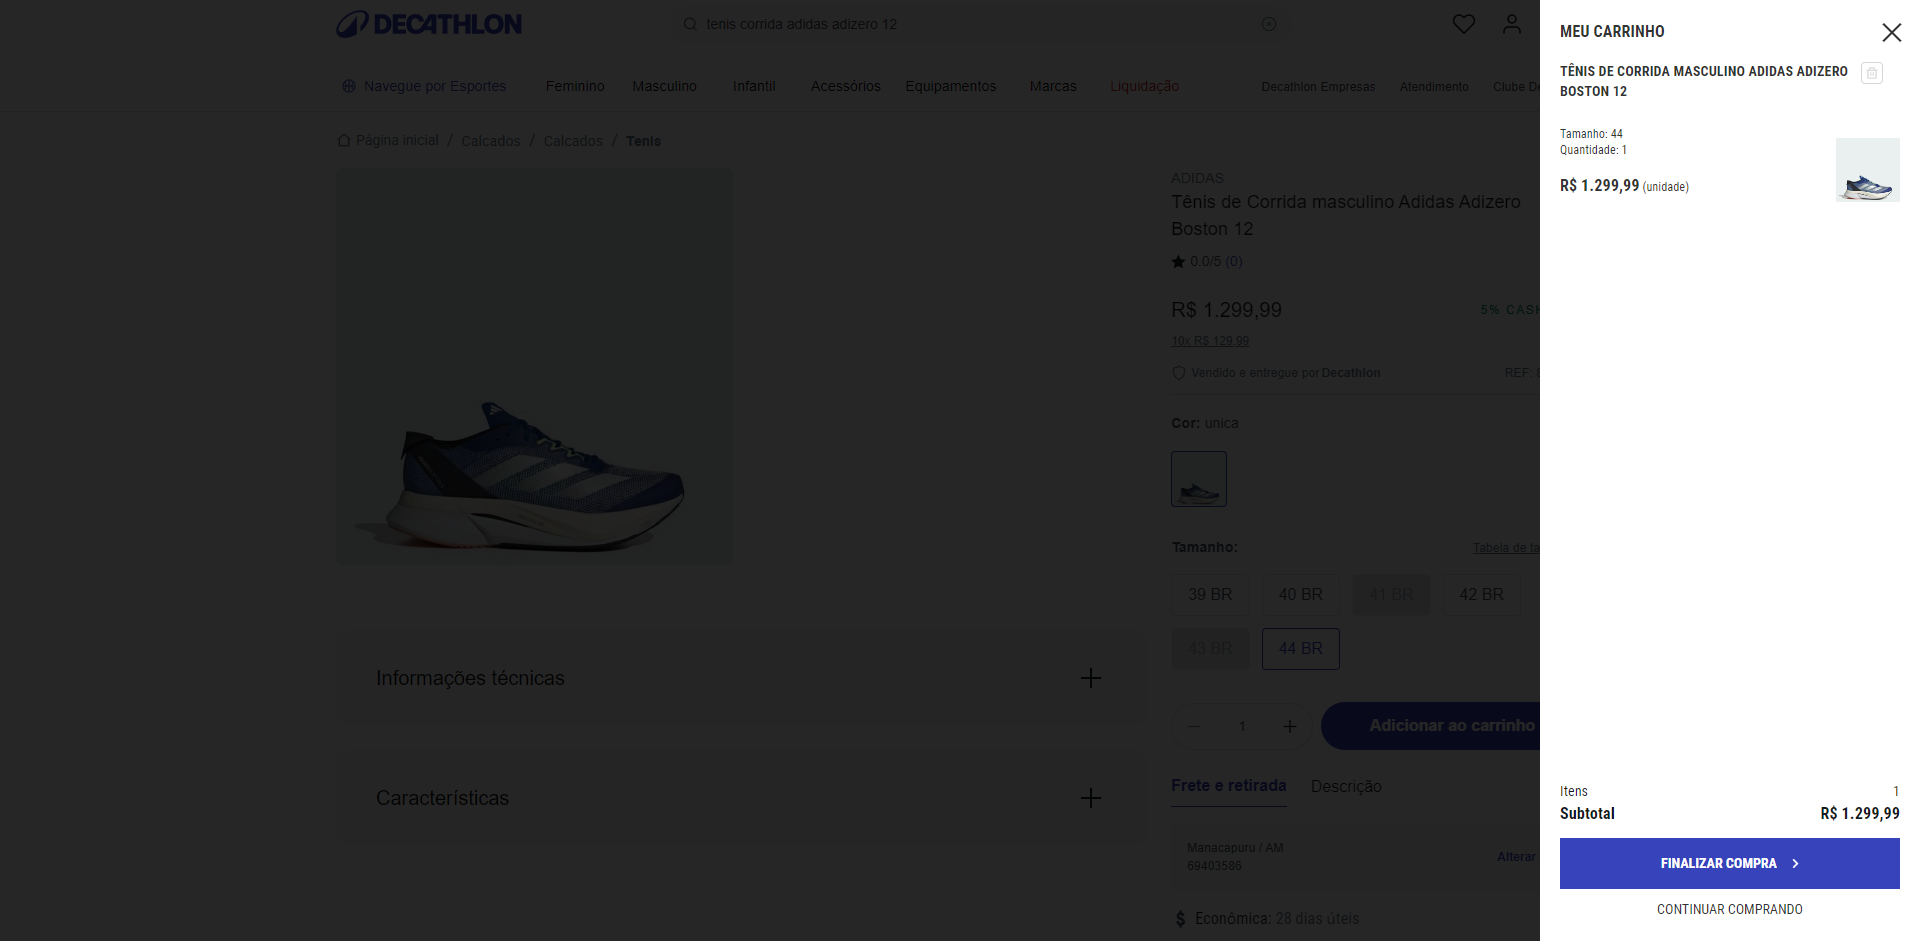
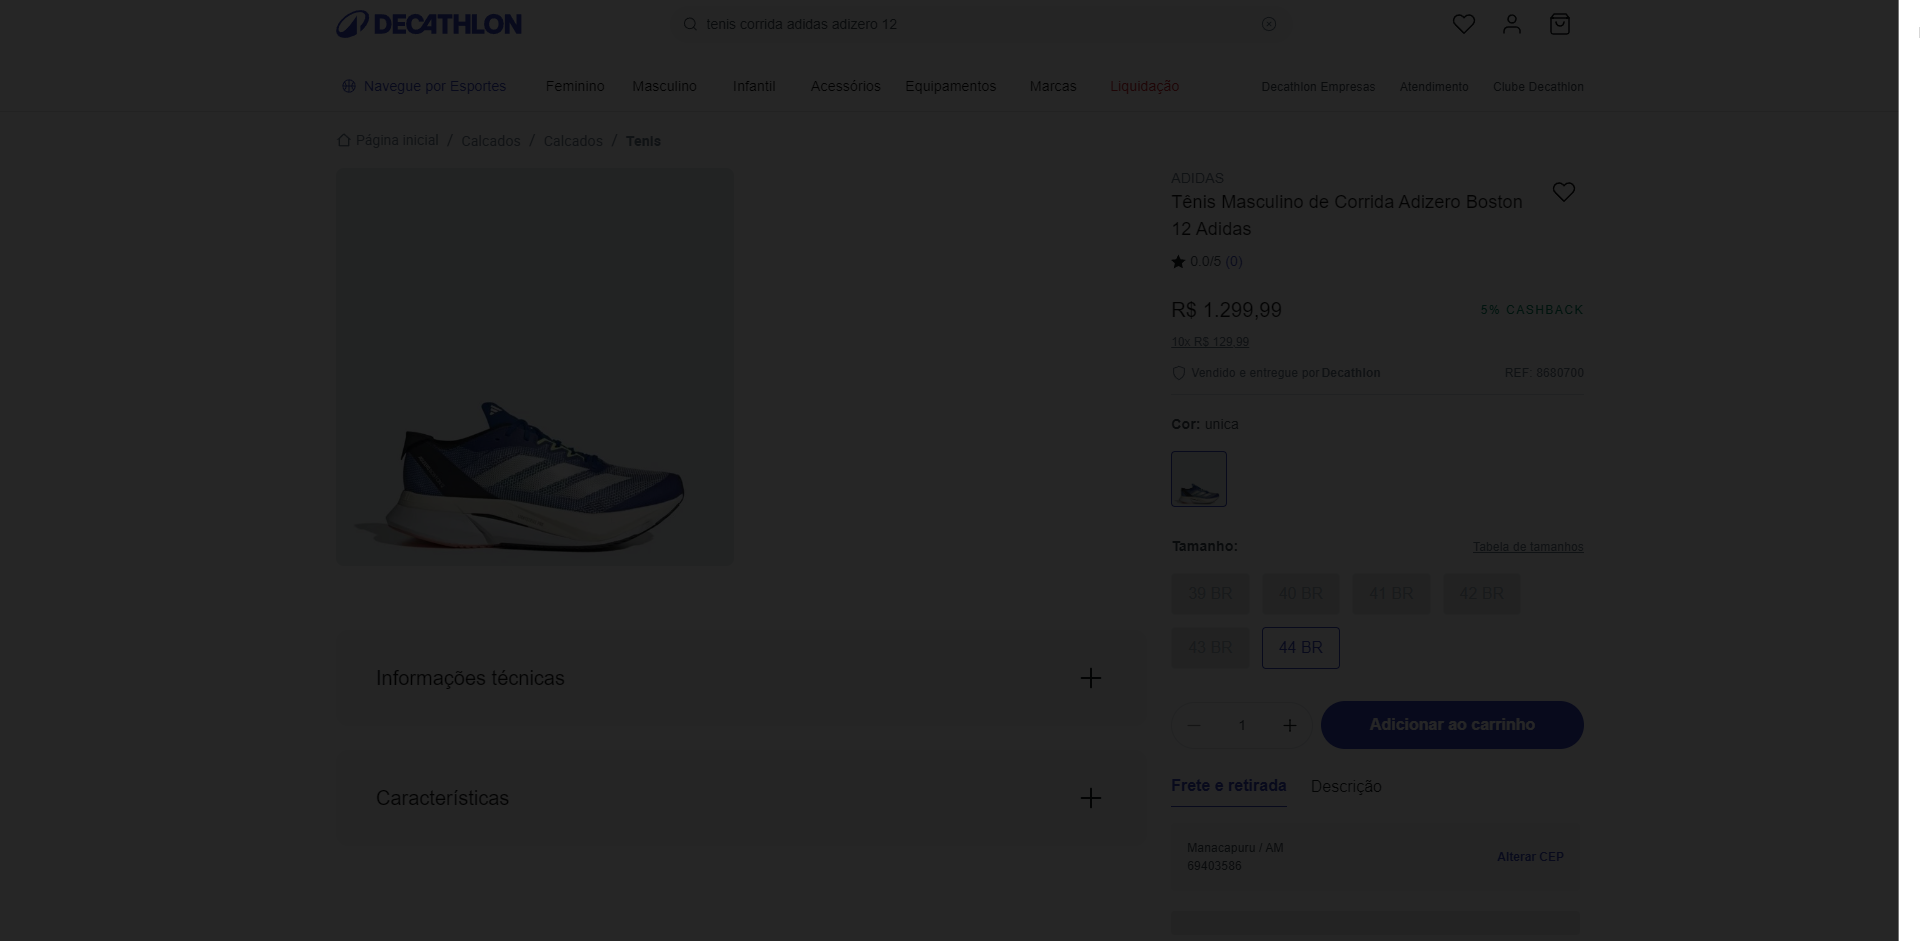
Alteração do Metodo pesquisarProduto e consultarCarrinho.

Changed region(s): [[0.7812, 0.0, 1.0, 1.0]]

diff --git a/src/test/java/decathlon/automation/metodos/Metodos.java b/src/test/java/decathlon/automation/metodos/Metodos.java
@@ -16,94 +16,93 @@ import org.openqa.selenium.support.ui.WebDriverWait;
 import decathlon.automation.drivers.DriverFactory;
 
 public class Metodos extends DriverFactory {
-    private static final String SCREENSHOTS_DIR = "evidencias.teste/";
+	private static final String SCREENSHOTS_DIR = "evidencias.teste/";
 
-    public static void captureScreenshot(String screenshotName) {
-        TakesScreenshot screenshotDriver = (TakesScreenshot) driver;
-        File screenshot = screenshotDriver.getScreenshotAs(OutputType.FILE);
-        try {
-            FileUtils.copyFile(screenshot, new File(SCREENSHOTS_DIR + screenshotName + ".png"));
-        } catch (IOException e) {
-            e.printStackTrace();
-        }
-    }
+	public static void captureScreenshot(String screenshotName) {
+		TakesScreenshot screenshotDriver = (TakesScreenshot) driver;
+		File screenshot = screenshotDriver.getScreenshotAs(OutputType.FILE);
+		try {
+			FileUtils.copyFile(screenshot, new File(SCREENSHOTS_DIR + screenshotName + ".png"));
+		} catch (IOException e) {
+			e.printStackTrace();
+		}
+	}
 
-    public static void esperarEClicar(By locator, int segundos) {
-        WebDriverWait wait = new WebDriverWait(driver, Duration.ofSeconds(segundos));
-        WebElement elemento = wait.until(ExpectedConditions.elementToBeClickable(locator));
-        elemento.click();
-    }
+	public static void esperarEClicar(By locator, int segundos) {
+		WebDriverWait wait = new WebDriverWait(driver, Duration.ofSeconds(segundos));
+		WebElement elemento = wait.until(ExpectedConditions.elementToBeClickable(locator));
+		elemento.click();
+	}
 
-    public static void clicar(By elemento) {
-        esperarEClicar(elemento, 10);
-    }
+	public static void clicar(By elemento) {
+		esperarEClicar(elemento, 10);
+	}
 
-    public static void preencherCampo(By elemento, String texto) {
-        WebDriverWait wait = new WebDriverWait(driver, Duration.ofSeconds(10));
-        WebElement campo = wait.until(ExpectedConditions.elementToBeClickable(elemento));
-        campo.clear();
-        campo.sendKeys(texto);
-    }
+	public static void preencherCampo(By elemento, String texto) {
+		WebDriverWait wait = new WebDriverWait(driver, Duration.ofSeconds(10));
+		WebElement campo = wait.until(ExpectedConditions.elementToBeClickable(elemento));
+		campo.clear();
+		campo.sendKeys(texto);
+	}
 
-    public static void pressionarEnter(By elemento) {
-        WebDriverWait wait = new WebDriverWait(driver, Duration.ofSeconds(10));
-        WebElement campo = wait.until(ExpectedConditions.elementToBeClickable(elemento));
-        campo.sendKeys(Keys.ENTER);
-    }
+	public static void pressionarEnter(By elemento) {
+		WebDriverWait wait = new WebDriverWait(driver, Duration.ofSeconds(10));
+		WebElement campo = wait.until(ExpectedConditions.elementToBeClickable(elemento));
+		campo.sendKeys(Keys.ENTER);
+	}
 
-    public static String capturarTexto(By elemento) {
-        WebDriverWait wait = new WebDriverWait(driver, Duration.ofSeconds(10));
-        WebElement campo = wait.until(ExpectedConditions.elementToBeClickable(elemento));
-        String texto = campo.getText();
-        captureScreenshot("capturarTexto_" + elemento.toString().replaceAll("[^a-zA-Z0-9]", ""));
-        return texto;
-    }
+	public static String capturarTexto(By elemento) {
+		WebDriverWait wait = new WebDriverWait(driver, Duration.ofSeconds(10));
+		WebElement campo = wait.until(ExpectedConditions.elementToBeClickable(elemento));
+		String texto = campo.getText();
+		captureScreenshot("capturarTexto_" + elemento.toString().replaceAll("[^a-zA-Z0-9]", ""));
+		return texto;
+	}
 
-    public static void aceitarCookies() {
-        clicar(By.xpath("//button[normalize-space()='Aceitar']"));
-    }
+	public static void aceitarCookies() {
+		clicar(By.xpath("//button[normalize-space()='Aceitar']"));
+	}
 
-    public static void pesquisarProduto() {
-        clicar(By.xpath("//input[@placeholder='Pesquise por um produto ou esporte']"));
-        preencherCampo(By.xpath("//input[@placeholder='Pesquise por um produto ou esporte']"),
-                "tenis corrida adidas adizero 12");
-        captureScreenshot("pesquisarProduto");
-        pressionarEnter(By.xpath("//input[@placeholder='Pesquise por um produto ou esporte']"));
-    }
+	public static void pesquisarProduto() {
+		clicar(By.xpath("//input[@placeholder='Pesquise por um produto ou esporte']"));
+		preencherCampo(By.xpath("//input[@placeholder='Pesquise por um produto ou esporte']"),
+				"tenis corrida adidas adizero 12");
+		captureScreenshot("pesquisarProduto");
+		pressionarEnter(By.xpath("//input[@placeholder='Pesquise por um produto ou esporte']"));
+	}
 
-    public static void selecionarProduto() {
-        clicar(By.xpath(
-                "//img[@data-src='https://decathlonstore.vtexassets.com/unsafe/302x302/center/middle/"
-                + "https%3A%2F%2Fdecathlonpro.vtexassets.com%2Farquivos%2Fids%2F65808190%2F-tn-adidas-boston-12-m-az-uk-11---eu-46-39-br1.jpg"
-                + "%3Fv%3D638328182983300000']"));
-        captureScreenshot("selecionarProduto");
-    }
+	public static void selecionarProduto() {
+		clicar(By.xpath("//img[@src=\"https://decathlonstore.vtexassets.com/unsafe/302x302/center/middle/"
+				+ "https%3A%2F%2Fdecathlonpro.vtexassets.com%2Farquivos%2Fids%2F65808214%2F-tn-adidas-boston-12-m-az-uk-11---eu-46-44-br1.jpg"
+				+ "%3Fv%3D638328183246400000\"]"));
+		captureScreenshot("selecionarProduto");
+	}
 
-    public static void selecionarTamanho() {
-        captureScreenshot("selecionarTamanho");
-        clicar(By.xpath("//button[normalize-space()='44 BR']"));
-        captureScreenshot("selecionarTamanho");
-    }
+	public static void selecionarTamanho() {
+		captureScreenshot("selecionarTamanho");
+		clicar(By.xpath("//button[normalize-space()='44 BR']"));
+		captureScreenshot("selecionarTamanho");
+	}
 
-    public static void adicionarAoCarrinho() {
-        clicar(By.xpath("//button[normalize-space()='Adicionar ao carrinho']"));
-    }
+	public static void adicionarAoCarrinho() {
+		clicar(By.xpath("//button[normalize-space()='Adicionar ao carrinho']"));
+	}
 
-    public static void preencherCEP() {
-        clicar(By.xpath("//input[@id='inputCep']"));
-        preencherCampo(By.xpath("//input[@id='inputCep']"), "69403-586");
-        captureScreenshot("preencherCEP");
-        clicar(By.xpath("//button[normalize-space()='Consultar frete']"));
-    }
+	public static void preencherCEP() {
+		clicar(By.xpath("//input[@id='inputCep']"));
+		preencherCampo(By.xpath("//input[@id='inputCep']"), "69403-586");
+		captureScreenshot("preencherCEP");
+		clicar(By.xpath("//button[normalize-space()='Consultar frete']"));
+	}
 
-    public static void consultarCarrinho() {
-        By carrinhoButton = By.xpath("//*[@id='BagCartOutline']/ancestor::button");
-        WebDriverWait wait = new WebDriverWait(driver, Duration.ofSeconds(10));
-        for (int i = 0; i < 3; i++) {
-            clicar(carrinhoButton);
-            wait.until(ExpectedConditions.visibilityOfElementLocated(carrinhoButton));
-        }
-        wait.until(ExpectedConditions.visibilityOfElementLocated(By.xpath("//button[normalize-space()='FINALIZAR COMPRA']")));
-        captureScreenshot("consultarCarrinho");
-    }
+	public static void consultarCarrinho() {
+		clicar(By.xpath("//*[@id='BagCartOutline']/ancestor::button"));
+		captureScreenshot("consultarCarrinho");
+		WebElement tituloCarrinho = driver.findElement(By.xpath("//*[@class='title-display']"));
+		String textoEsperado = "meu carrinho";
+		String textoAtual = tituloCarrinho.getText();
+		if (!textoAtual.equalsIgnoreCase(textoEsperado)) {
+			throw new AssertionError("Texto esperado: " + textoEsperado + " mas foi: " + textoAtual);
+		}
+	}
 }
